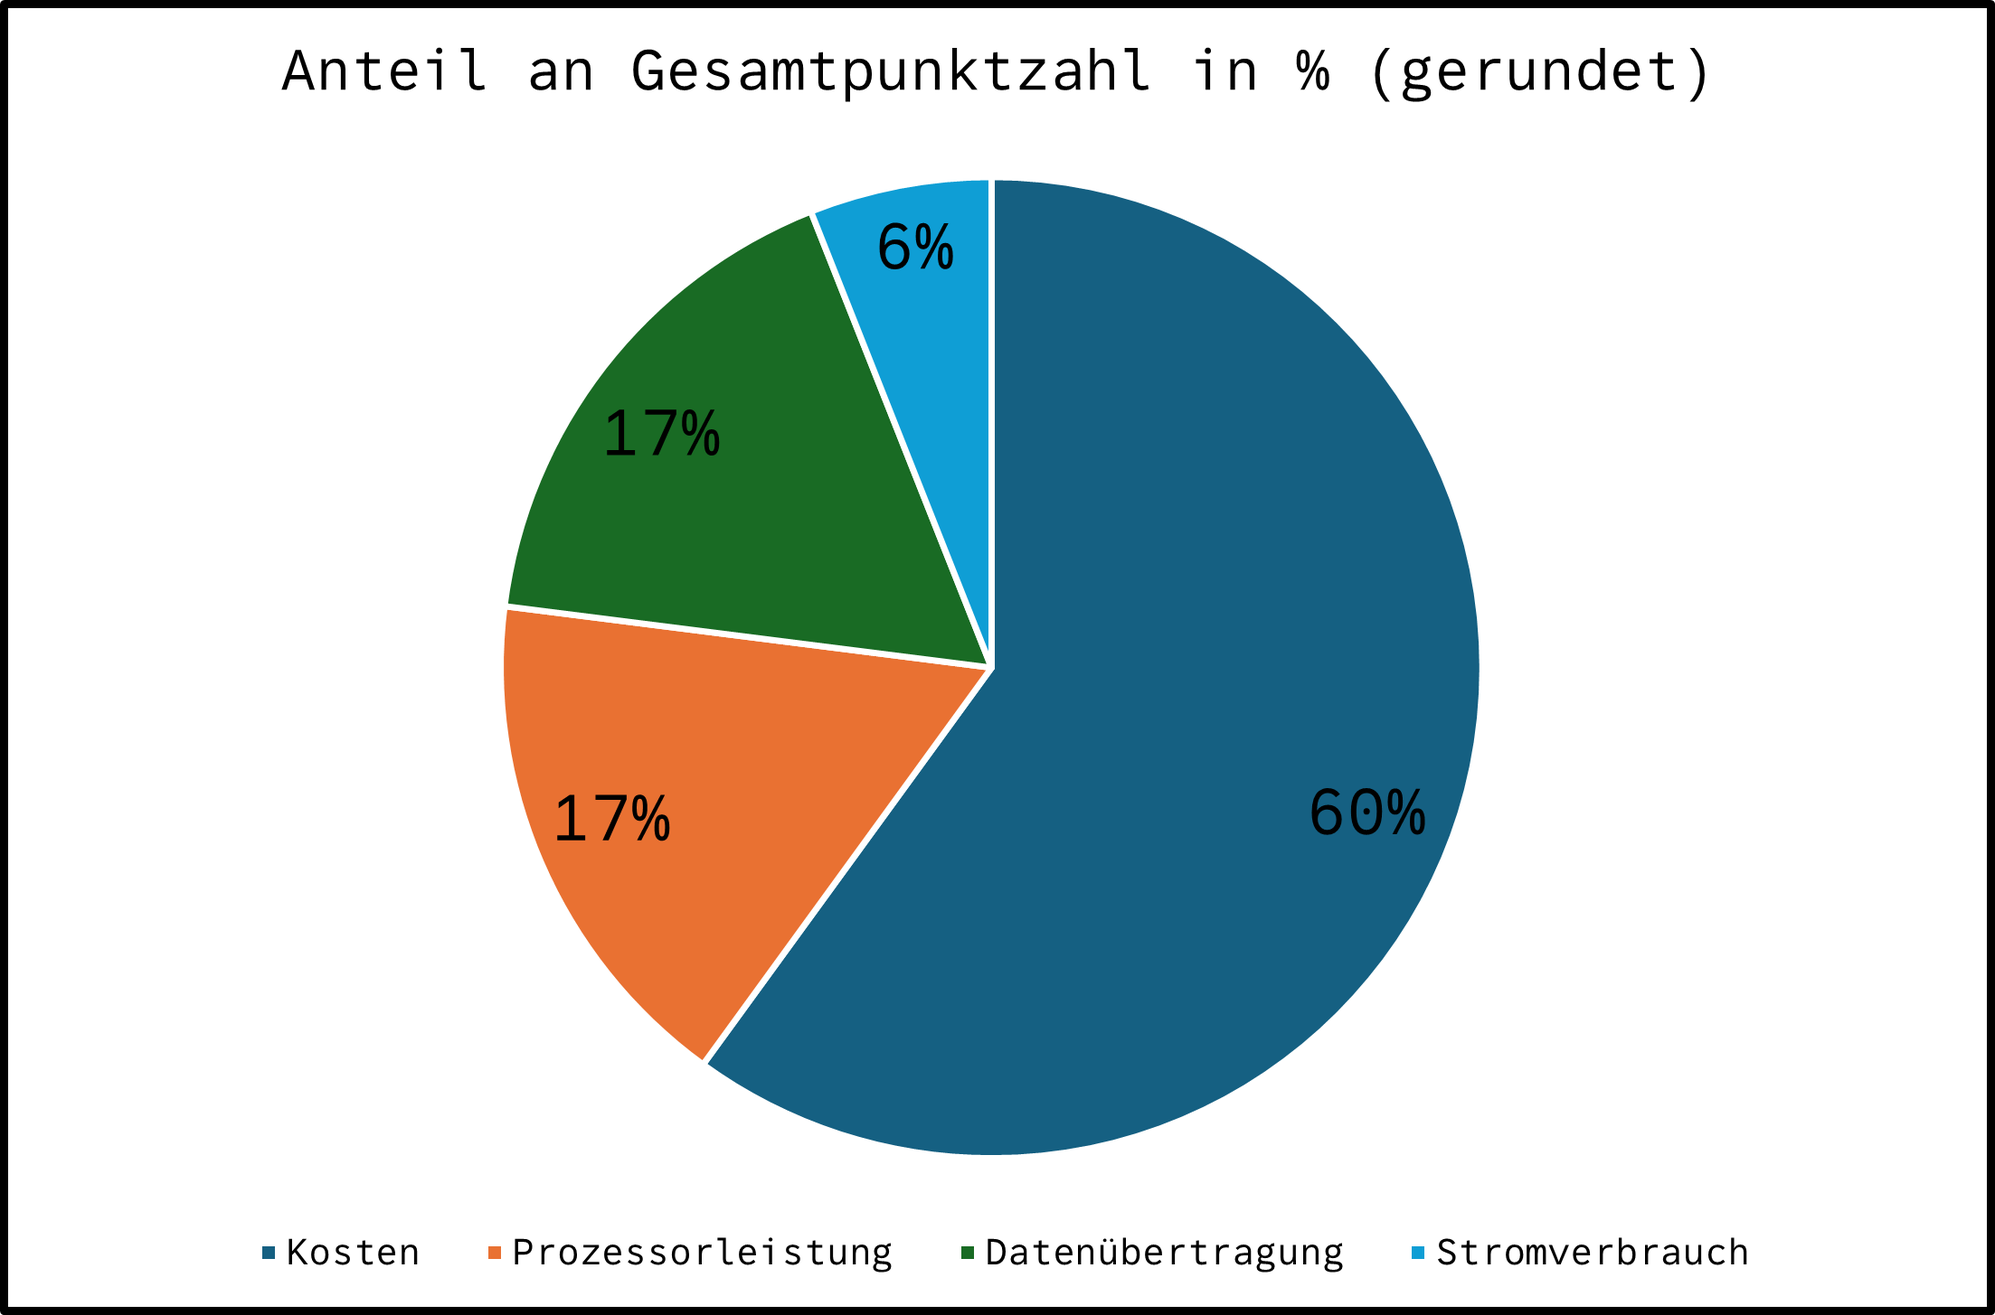
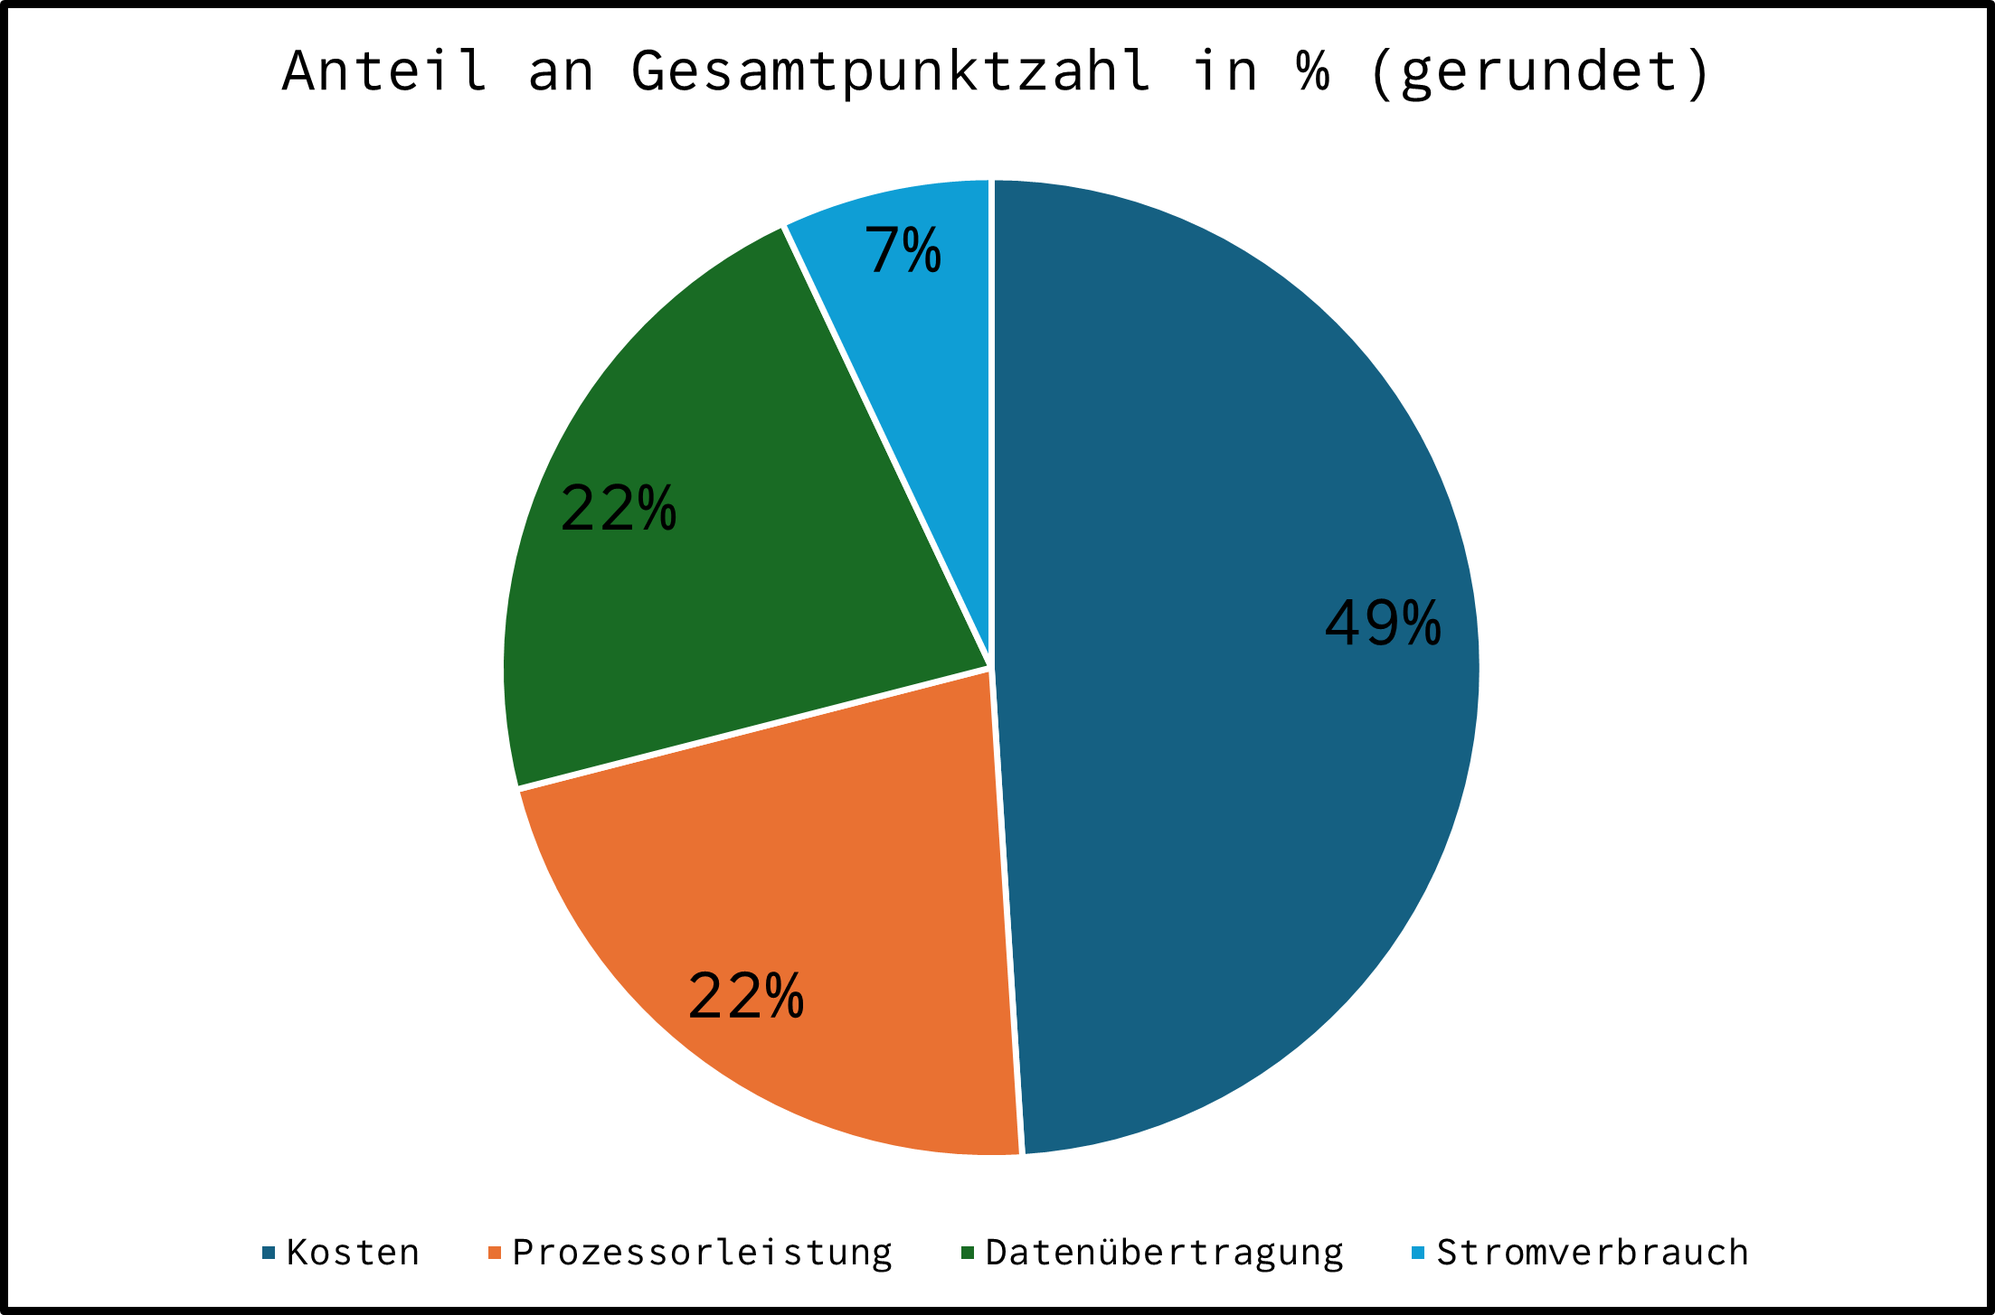
Loretta, Knight of the Haligtree | Add datasheets of microcontrollers to appendix of thesis; Changes in the ESP32-DevKit-C chapter; Add full chapter about Raspberry Pi Pico 2W; Research and compare different microcontrollers; Remove old price comparison images; Adjust formula to rank cost; Adjust im

diff --git a/Diplomarbeit/31-ausarbeitung-schaar.md b/Diplomarbeit/31-ausarbeitung-schaar.md
@@ -33,7 +33,7 @@ Mikrocontroller sind in den verschiedensten Systemen zu zahlreichen Zwecken verb
 
 Um die Leistung der verschiedenen Mikrocontroller vergleichbar zu machen, müssen vorerst Kriterien festgelegt werden, anhand von denen die verschiedenen Optionen verglichen werden. Diese sollten bestmöglich messbar und objektiv vergleichbar sein, um eine gute Basis für die Auswahl zu schaffen. Mithilfe dieser Kriterien werden Punkte vergeben, anhand von denen eine Wahl getroffen wird.
 
-Eine gut vergleichbare Eigenschaft sind die Kosten, bei denen eine Reduktion sowohl für das Entwicklerteam als auch für Endbenutzer, welche das Projekt zu Hause replizieren wollen, vorteilhaft ist. Um die Kosten in direkter Relation zu vergleichen, wird die Formel $Punkte = min(30, ceil(\frac{100}{Kosten}))$ zur Bewertung verwendet. Mit ihr wird 100 durch die Kosten dividiert und das Ergebnis gerundet, sodass eine Punktezahl herauskommt. Danach wird dieser Wert auf maximal 30 gesetzt, sodass nicht mehr Punkte möglich sind, auch wenn niedrigere Kosten bestehen. Dieser Ansatz wurde gewählt, da er simpel zu berechnen ist und Kostenunterschiede in der Punktzahl sichtbar macht.
+Eine gut vergleichbare Eigenschaft sind die Kosten, bei denen eine Reduktion sowohl für das Entwicklerteam als auch für Endbenutzer, welche das Projekt zu Hause replizieren wollen, vorteilhaft ist. Um die Kosten in direkter Relation zu vergleichen, wird die Formel $Punkte = min(20, ceil(\frac{100}{Kosten}))$ zur Bewertung verwendet. Mit ihr wird 100 durch die Kosten dividiert und das Ergebnis gerundet, sodass eine Punktezahl herauskommt. Danach wird dieser Wert auf maximal 20 gesetzt, sodass nicht mehr Punkte möglich sind, auch wenn niedrigere Kosten bestehen. Dieser Ansatz wurde gewählt, da er simpel zu berechnen ist und Kostenunterschiede in der Punktzahl sichtbar macht.
 
 Für ein angenehmes Spielerlebnis ist eine schnelle und zuverlässige Übertragung der Eingaben wichtig. Daher werden die Prozessorleistung zur Verarbeitung der Eingaben sowie die Übertragungszeiten für den Austausch der Daten als weitere Vergleichsbasis verwendet.
 
@@ -95,7 +95,7 @@ Zusätzlich zu diesen Errungenschaften ist er der Autor des Buchs "Getting Start
 
 #### Technische Daten
 
-Alle hier tabellarisch angegebenen Spezifikationen kommen aus dem offiziellen Arduino-Nano-ESP32-Datenblatt [@arduino-nano-datasheet]. Die Daten beziehen sich hierbei auf die zu bewertenden Kategorien, welche für die Entscheidung eines Mikrocontrollers herangenommen werden.
+Alle hier tabellarisch angegebenen Spezifikationen stammen aus dem offiziellen Arduino-Nano-ESP32-Datenblatt [@arduino-nano-datasheet]. Die Daten beziehen sich hierbei auf einen Teil der zu bewertenden Kategorien, welche für die Entscheidung eines Mikrocontrollers herangenommen werden. Für die exakten Daten, die für die Entscheidungen herangenommen werden, wird auf die Datenblätter im Anhang dieser Arbeit verwiesen.
 
 | Controllereigenschaft         | Wert / Größe                                        |
 |------------------------------:|:----------------------------------------------------|
@@ -143,7 +143,7 @@ ESP-Now ermöglicht Master-Slave-Beziehungen zwischen Boards, für Kommunikation
 
 In Abbildung x [@esp-now-introduction] wird die Kommunikation mehrerer ESP-32-Controller in beide Richtungen dargestellt. Dies ist zwar nur eine simple Visualisierung, zeigt jedoch dass die Verbindung vieler Mikrocontroller dadurch einfach ermöglicht wird. Dadurch ergeben sich zahlreiche Möglichkeiten für zusammenhängende Systeme, wie z. B. die Messung und Übermittlung verschiedener Sensordaten in einem Smart Home.
 
-Hier folgen nun beispielhafte Code-Snippets [@esp-now-introduction] zur Realisierung des ESP-Now-Protokolls (in One-Way-Form) in C-Code, so wie er auf einem Mikrocontroller laufen würde:
+Hier folgen nun beispielhafte Code-Snippets [@esp-now-introduction] zur Realisierung des ESP-Now-Protokolls (One-Way-Form) in C-Code, so wie er auf einem Mikrocontroller laufen würde:
 
 ```C
 #include "WiFi.h"
@@ -157,7 +157,7 @@ void setup(){
 void loop(){}
 ```
 
-Mit diesem Code wird mithilfe der WiFi-Library die MAC-Adresse des Empfänger-Gerätes ermittelt, welche im folgenden Code verwendet wird. Gehen wir nun beispielhaft davon aus, dass hierbei die Adresse **66:94:6B:59:97:35** herauskommt.
+Mit diesem Code wird mithilfe der WiFi-Library die MAC-Adresse des Empfänger-Gerätes ermittelt, welche im folgenden Code verwendet wird. Gehen wir nun beispielhaft davon aus, dass hierbei die Adresse **66:94:6B:59:97:35** herauskommt. Diese Adresse wird nun zur weiteren Verwendung im folgenden Code in ein Array gespeichert.
 
 ```C
 #include <esp_now.h>
@@ -210,7 +210,7 @@ void loop() {
 }
 ```
 
-Dieser Code wird auf dem Mikrocontroller aufgerufen, der die Message - in diesem Fall ein ganz simples "Hello World!" - im Sekundentakt versendet. Hierbei werden die Daten verschickt und es wird eine Erfolgs- bzw. Fehlernachricht je nach Ergebnis ausgegeben.
+Dieser Code wird auf dem Mikrocontroller aufgerufen, der die Message - in diesem Fall ein ganz simples "Hello World!" - im Sekundentakt versendet. Hierbei werden die Daten verschickt und es wird eine Erfolgs- bzw. Fehlernachricht je nach Ergebnis ausgegeben. In der ```esp_now_peer_info_t```-Variable werden die Informationen zu "Peers" - bezeichnet die zusammenhängenden Mikrocontroller, welche die versendeten Informationen erhalten - gespeichert.
 
 ```C
 #include <esp_now.h>
@@ -241,18 +241,22 @@ void setup() {
 void loop() {}
 ```
 
-Dieses kurze Snippet ist alles, was auf der Seite des Empfängers laufen muss, damit dieser die Nachrichten vom Sender empfangen kann.
+Dieses kurze Snippet ist alles, was auf der Seite des Empfängers laufen muss, damit dieser die Nachrichten vom Sender empfangen kann. Zuerst wird eine Datenstruktur mit ```struct_message myData;``` erstellt, in der die empfangenen Daten gespeichert werden. Sobald per ESP-Now Informationen eingelangen wird die ```void OnDataRecv(const uint8_t * mac, const uint8_t *incomingData, int len)```-Methode aufgerufen, welche zuerst die eingehenden Daten in die erstellte Variable speichert und diese danach ausgibt.
+
+Auch wenn dieses kurze Beispiel keine komplexe Aufgabe erledigt, wird trotzdem veranschaulicht, dass es nicht sehr aufwendig ist mithilfe von ESP-Now Daten zwischen Mikrocontrollern zu versenden.
 
 
 #### Firma - Espressif Systems
 
-Das ESP-32 DevKit C ist Teil der großen ESP32-Familie an Mikrocontrollern, welche von Espressif Systems [@espressif-about] entwickelt wird. Die Firma arbeitet an innovativen Lösungen rund um IoT und arbeitet in den letzten Jahren mehr und mehr an KI-Integration für Mikrocontroller. Sie veröffentlichen ihre Ressourcen und Modelle Open-Source und tragen damit maßgeblich zur globalen Weiterentwicklung von Mikrocontrollern, Embedded Systems und IoT bei. Ihre Produktlösungen umfassen Smart Home Systeme, IoT Security, Machine Vision, Deep Learning, Speech AI und viele weitere 
+Das ESP-32 DevKit C ist Teil der großen ESP32-Familie an Mikrocontrollern, welche von Espressif Systems [@espressif-about] entwickelt wird. Die Firma arbeitet an innovativen Lösungen rund um IoT und arbeitet in den letzten Jahren mehr und mehr an KI-Integration für Mikrocontroller. Sie veröffentlichen ihre Ressourcen und Modelle Open-Source und tragen damit maßgeblich zur globalen Weiterentwicklung von Mikrocontrollern, Embedded Systems und IoT bei. Ihre Produktlösungen umfassen Smart Home Systeme, IoT Security, Machine Vision, Deep Learning, Speech AI und viele weitere Anwendungen. 
 
 Teo Swee Ann hat die Firma im Jahr 2008 in Shanghai gegründet und ist bis heute der CEO bei Espressif Systems. 2016 wird dann der originale ESP32-Mikrocontroller veröffentlicht, welcher durch seine WLAN- & Bluetooth-Kapazitäten revolutionär ist. Seither wurden der Familie allerlei neue und spezialisierte Mikrocontroller hinzugefügt, wodurch für Projekte verschiedenster Größenordnungen Optionen existieren.
 
+Espressif Systems bemühen sich durch verschiedene Projekte umweltfreundlicher zu sein. Durch konstante Forschung versuchen sie den Energieverbrauch ihrer Produkte sowie den produktionsbedingten Materialverlust zu minimieren. Außerdem haben sie ein Wildlife Protection Programm gestartet, um die Leben von bedrohten Tierarten zu wahren.
+
 #### Technische Daten
 
-Alle hier tabellarisch angegebenen Spezifikationen kommen aus dem offiziellen ESP32-WROOM-32-Datenblatt [@esp32-datasheet]. Die Daten beziehen sich hierbei auf die zu bewertenden Kategorien, welche für die Entscheidung eines Mikrocontrollers herangenommen werden.
+Alle hier tabellarisch angegebenen Spezifikationen kommen aus dem offiziellen ESP32-WROOM-32-Datenblatt [@esp32-datasheet]. Die Daten beziehen sich hierbei auf einen Teil der zu bewertenden Kategorien, welche für die Entscheidung eines Mikrocontrollers herangenommen werden. Für die exakten Daten, die für die Entscheidungen herangenommen werden, wird auf die Datenblätter im Anhang dieser Arbeit verwiesen.
 
 | Controllereigenschaft         | Wert / Größe                                        |
 |------------------------------:|:----------------------------------------------------|
@@ -273,13 +277,112 @@ In Abbildung x [@esp32-pinout] werden die Pin-Belegungen eines ESP32-WROOM-32 da
 
 ![Raspberry Pi Pico 2W](img/Schaar/Raspberry-Pi-Pico-2W-IRL.png)
 
-Der letzte Mikrocontroller, der in dieser Arbeit betrachtet wird ist der Raspberry Pi Pico 2W (siehe Abbildung x [@raspberry-pi-pico-2w-image])
+Der letzte Mikrocontroller, der in dieser Arbeit betrachtet wird, ist der Raspberry Pi Pico 2W [@raspberry-pi-pico-documentation] (siehe Abbildung x [@raspberry-pi-pico-2w-image]). Dieser Controller verwendet keinen ESP-32 basierten Chip für kabellose Datenübertragung, sondern einen Infineon CYW43439 in Kombination mit einer ABRACON-lizensierten Antenne.
+
+Für die Programmierung eines Pi Pico kann sowohl C/C++ als auch MicroPython verwendet werden, gleich wie bei den vorherigen Mikrocontrollern auch. Während bei den anderen beiden jedoch vorwiegend C/C++ verwendet wird, werden Programme auf dem Pi Pico primär in MicroPython geschrieben, was vorwiegend daran liegt, dass die Programmiersprache nativ auf dem Controller läuft. Für C/C++ ist eine robuste SDK verfügbar, die eher für erfahrenere Entwickler gedacht ist, aber trotzdem alle Funktionen des Pico nutzbar macht.
+
+![Raspberry Pi Code Club](img/Schaar/Raspberry-Pi-Code-Club.png)
+
+Da (Micro-)Python als Programmiersprache weitaus einsteigerfreundlicher als andere Sprachen ist, wird der Raspberry Pi Pico gerne für den Einstieg in die Hardware-Programmierung genommen. Dafür gibt es auf der offiziellen Raspberry Pi Code Club Seite [@raspberry-pi-code-club] viele Projekte, welche wichtige Kernkonzepte der Low-Level-Programmierung erklären (siehe Abbildung x [@raspberry-pi-code-club]).
+
+Dank der ```gpiozero```/```picozero```-Library [@gpiozero-library] [@picozero-library] - ```picozero``` ist hierbei eine abgeänderte Version der ```gpiozero```-Library, welche ihre grundlegende Struktur wiederverwendet, aber für den Raspberry Pi Pico optimiert ist - wird das Interfacing verschiedener GPIO-Geräte mit dem Raspberry Pi Pico ein leichtes. Diese Library hat viele Funktionen für die verschiedensten Input-/Output-Teile, welche die Nutzung dieser auch für unerfahrene Programmierer:innen ermöglichen und bei der Entwicklung viel Code ersparen.
+
+```Python
+from picozero import RGBLED
+from time import sleep
+
+rgb = RGBLED(red=1, green=2, blue=3) # Pin numbers
+
+def pop():
+    rgb.color = (255, 0, 255) # Purple
+    sleep(2)
+    rgb.off()
+
+pop() # Call the pop function
+```
+
+Dieses simple Beispiel von der Raspberry Pi Code Club Website [@raspberry-pi-code-club] zeigt, wie einfach es ist, mithilfe der Library eine LED in der Farbe lila zum Leuchten zu bringen. Man muss nur eine Variable als LED initialisieren, indem man die dazugehörigen Pins für jede Farbe angibt und daraufhin ihre Farbe eingeben und sie wieder ausschalten.
+
+```Python
+from picozero import MotionSensor
+
+pir = MotionSensor(4)
+
+pir.wait_for_motion()
+print("Motion detected!")
+```
+
+Das vorherige Beispiel war für eine LED, also ein Output-Bauteil, während dieses für einen Bewegungsmelder ist, der auf ein Signal wartet. Da dieser Code ohne Leerzeilen nur 4 Zeilen lang ist, wird klar, dass mit dieser Library viele Projekte ohne allzu viel eigene Tüftelarbeit realisierbar sind. Bei diesem Beispiel wird nur der Pin des Sensors initialisiert und danach eine Methode aufgerufen, die das Programm stoppt, bis eine Bewegung wahrgenommen wird und danach eine Nachricht ausgibt.
+
+**Programm in C (Arduino Language)**
+```C
+const int trigPin = 17;
+const int echoPin = 18;
+
+double duration, cm;
+
+void setup(void) {
+  Serial.begin(9600);
+
+  pinMode(trigPin, OUTPUT);
+  pinMode(echoPin, INPUT);
+}
+
+void loop() {
+  digitalWrite(trigPin, LOW);
+  delayMicroseconds(5);
+  digitalWrite(trigPin, HIGH);
+  delayMicroseconds(10);
+  digitalWrite(trigPin, LOW);
+ 
+  pinMode(echoPin, INPUT);
+  duration = pulseIn(echoPin, HIGH);
+
+  cm = (duration/2) / 29.1;
+
+  Serial.print("Distance: ");
+  Serial.println(cm);
+  
+  delay(1000);
+}
+```
+
+**Programm in MicroPython mit ```picozero```-Library**
+```Python
+from picozero import DistanceSensor
+from time import sleep
+
+sensor = DistanceSensor(echo=18, trigger=17)
+while True:
+    print('Distance: ', sensor.distance * 100)
+    sleep(1)
+```
+
+Diese beiden Code-Segmente erfüllen dieselbe Funktion, während das erste in C bzw. Arduino Language - wie sie z. B. auf einem Arduino Nano ESP32 laufen würde - und das zweite in MicroPython mit der ```picozero```-Library geschrieben ist. Direkt erkennbar ist, dass hierbei bei dem MicroPython-Code für den/die Programmierer:in weitaus weniger zu tun ist als beim C-Code. 
+
+Natürlich gibt es für viele Sensoren auch in C Libraries welche einen großen Teil dieses zusätzlichen Aufwandes entfernen, jedoch ist keine so simple und weitreichende Library für die gleiche Menge an verschiedenen Sensoren verfügbar wie in MicroPython. Grundsätzlich ist es also persönliche Präferenz, in welcher Sprache programmiert wird, jedoch ist MicroPython in Kombination mit der ```picozero```-Library auf jeden Fall sehr viel einfacher in der Zurechtfindung.
 
 #### Firma - Raspberry Pi
 
+Gleich wie die anderen Geräte der Raspberry-Pi-Familie ist auch der Raspberry Pi Pico 2W ein Gerät von der Raspberry Pi Foundation [@raspberry-pi-about] [@raspberry-pi-story]. Die Raspberry Pi Foundation wurde 2012 gegründet, um einerseits neue und besser ausgebildete Schüler an die University of Cambridge zu bringen und andererseits um junge Menschen mithilfe von kostengünstiger Hardware an die Programmierung heranzuführen.
+
+Konzipiert und entwickelt wurde der erste Raspberry Pi damals von einem Team an der University of Cambridge. Ein paar der treibenden Kräfte in diesem Team sind/waren Eben Upton, Robert Mullins und Alan Mycroft sowie zahlreiche weitere Entwickler. Für die Entwicklung des Computers stellte das Team damals 4 Anforderungen auf:
+
+**1. Programmierbare Hardware**
+
+**2. Spaß bei der Entwicklung**
+
+**3. Leistbar für alle**
+
+**4. Robustheit**
+
+Für das Team war es von Anfang an wichtig, diese Anforderungen bei der Entwicklung einzuhalten. Auf dem Gerät sollte es möglich sein zu programmieren, während die Entwicklung für die Kinder und Jugendlichen auch noch Spaß machen sollte. Als Preis hatten sie von Anfang an 25 Dollar im Kopf, da dies für sie ein Betrag war, der für die meisten Familien tragbar wäre. Der vierte Punkt musste für sie auch erreicht werden, da der Raspberry Pi ein Gerät werden sollte, das unter anderem von Kindern jeden Tag verwendet werden würde, weshalb es stabil sein müsste.
+
+14 Jahre später werden immer noch neue Geräte entwickelt und die Bemühungen der Foundation, die Entwicklung von Hardware- und Software-Projekten einfach zugänglich und verständlich zu machen, gehen bis heute international weiter. Nur in der UK wurden bereits über 26.000 Lehrer unterstützt und auf der ganzen Welt werden offizielle Projekte durchgeführt, um junge Menschen zu informieren.
+
 #### Technische Daten
 
-Alle hier tabellarisch angegebenen Spezifikationen kommen aus dem offiziellen Raspberry-Pi-Pico-2W-Datenblatt [@raspberry-pi-pico-datasheet]. Die Daten beziehen sich hierbei auf die zu bewertenden Kategorien, welche für die Entscheidung eines Mikrocontrollers herangenommen werden.
+Alle hier tabellarisch angegebenen Spezifikationen kommen aus dem offiziellen Raspberry-Pi-Pico-2W-Datenblatt [@raspberry-pi-pico-datasheet]. Die Daten beziehen sich hierbei auf einen Teil der zu bewertenden Kategorien, welche für die Entscheidung eines Mikrocontrollers herangenommen werden. Für die exakten Daten, die für die Entscheidungen herangenommen werden, wird auf die Datenblätter im Anhang dieser Arbeit verwiesen.
 
 | Controllereigenschaft         | Wert / Größe                                        |
 |------------------------------:|:----------------------------------------------------|
@@ -298,7 +401,7 @@ Die Abbildung x [@raspberry-pi-pico-2w-pinout] stellt die Pin-Belegungen eines R
 
 ### Vergleich der Optionen & Entscheidung
 
-In diesem Teil folgt der direkte Vergleich sowie die Entscheidung für eine der Mikrocontroller-Optionen. Jegliche Diagramme, welche zur Veranschaulichung der Daten verwendet werden, wurden mithilfe von Microsoft Excel erstellt.
+In diesem Teil folgt der direkte Vergleich sowie die Entscheidung für eine der Mikrocontroller-Optionen. Jegliche Diagramme und Berechnungen, welche zur Veranschaulichung und Ermittlung der Daten verwendet werden, wurden mithilfe von Microsoft Excel erstellt. Die Daten für den Vergleich der Preise werden durch einen Vergleich von mehreren Händlerangeboten pro Mikrocontroller ermittelt.
 
 ### Sensorenauswahl
 
